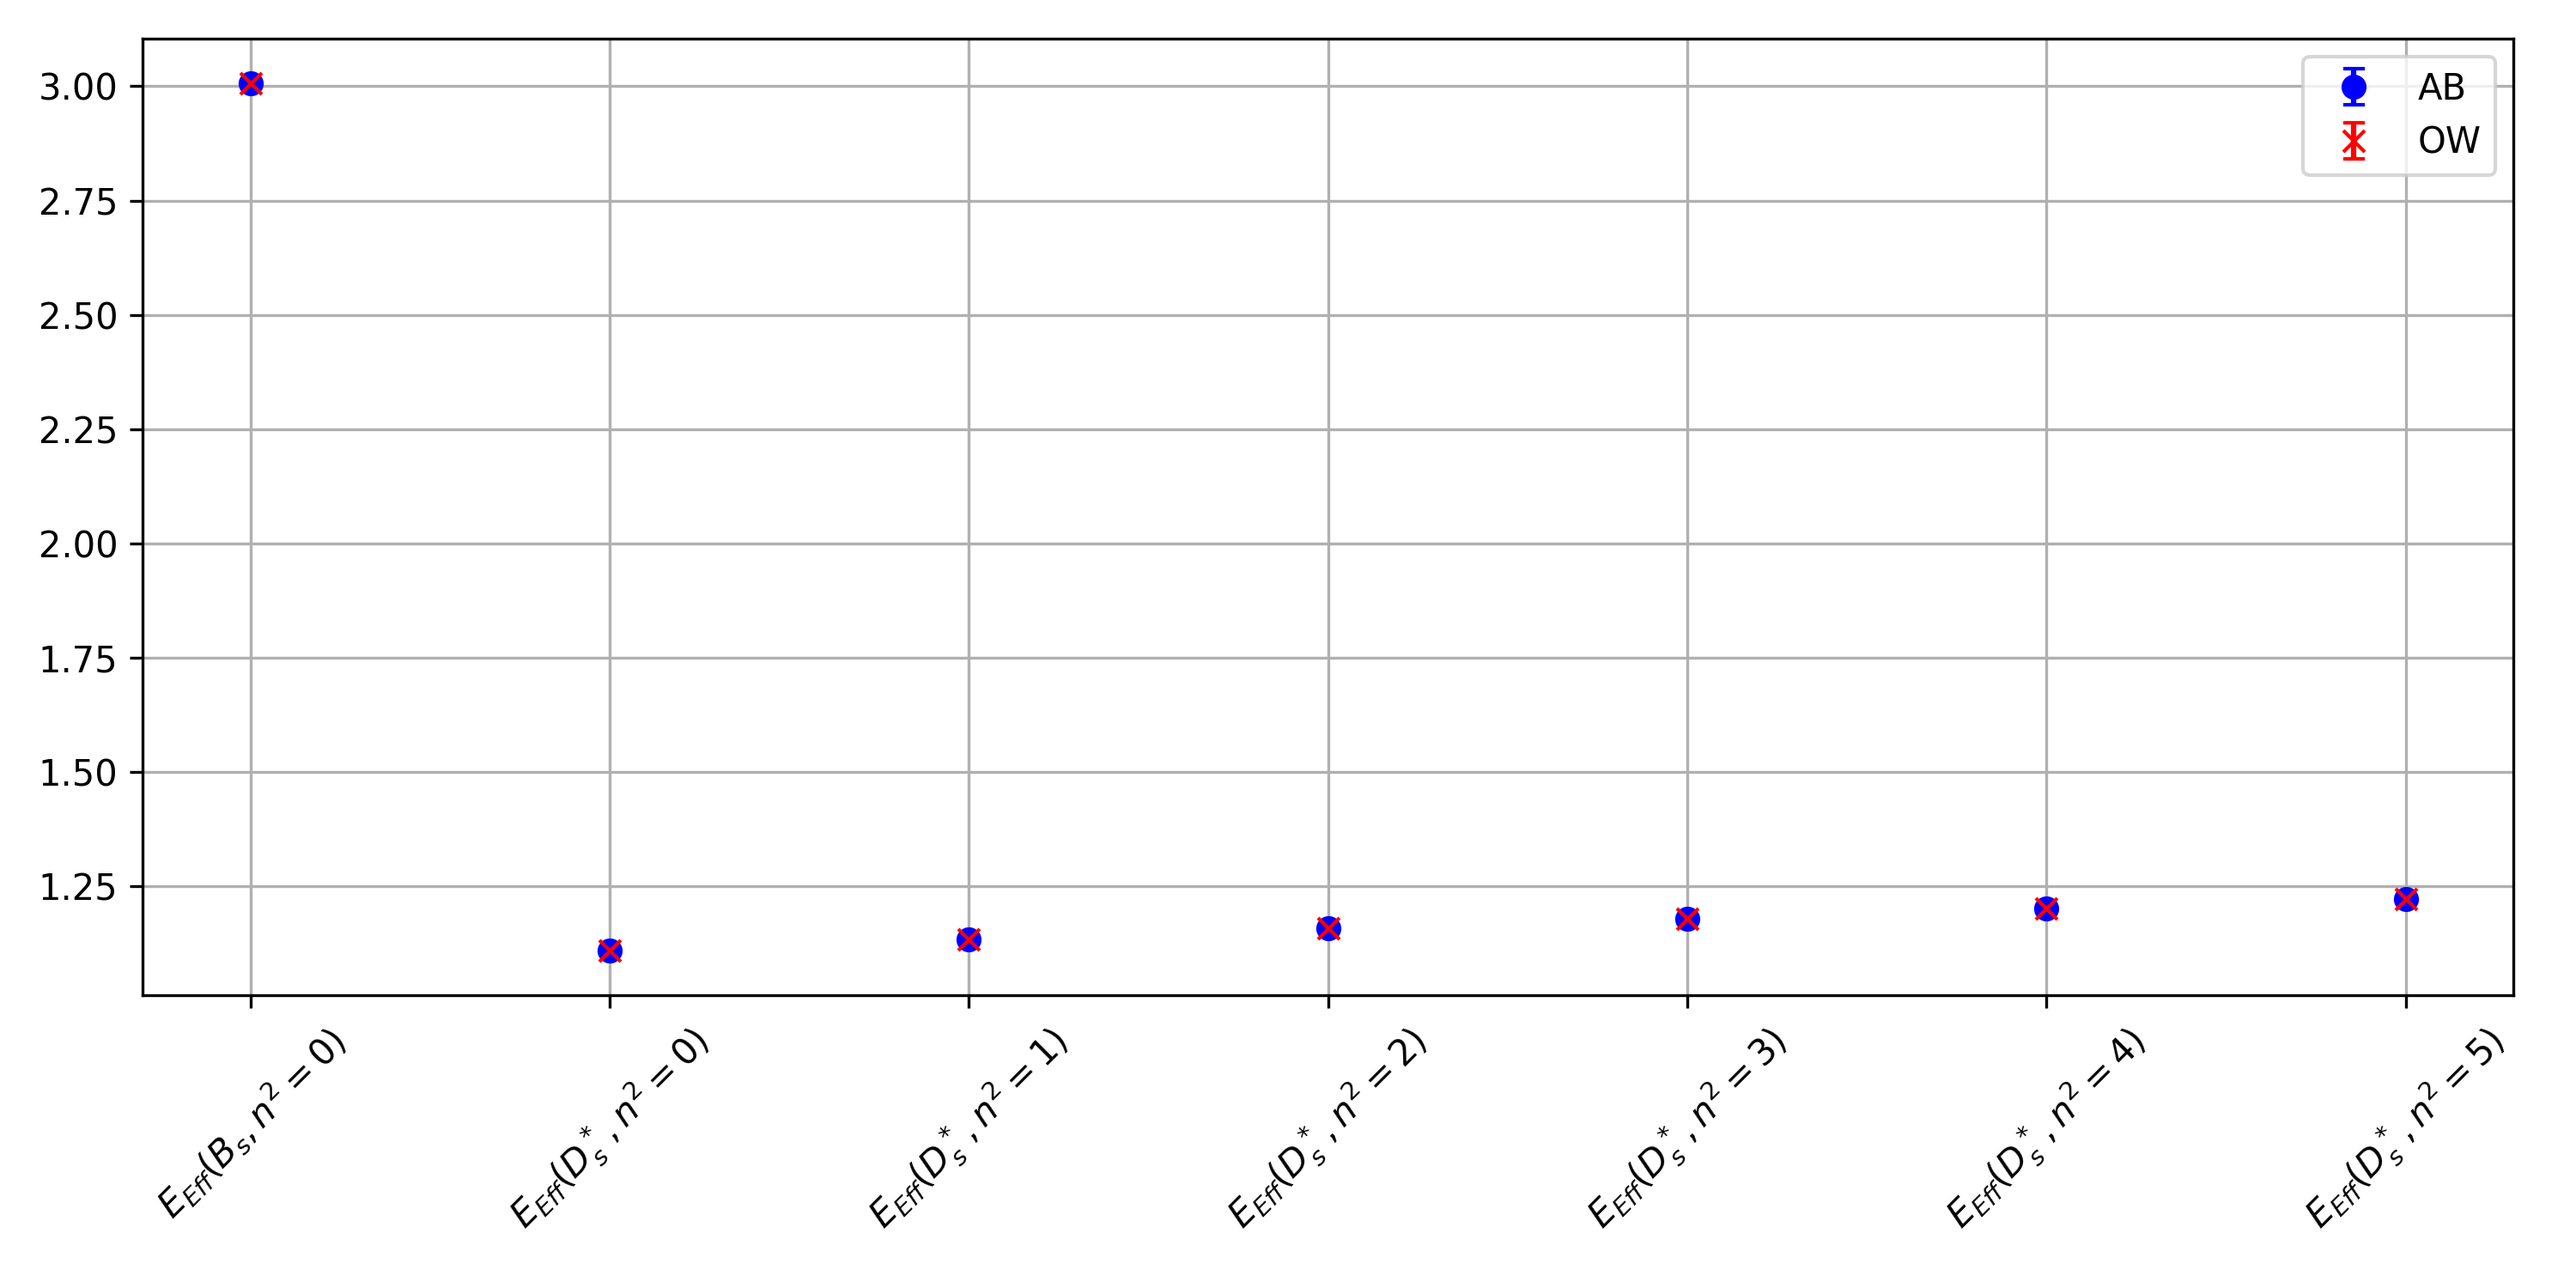
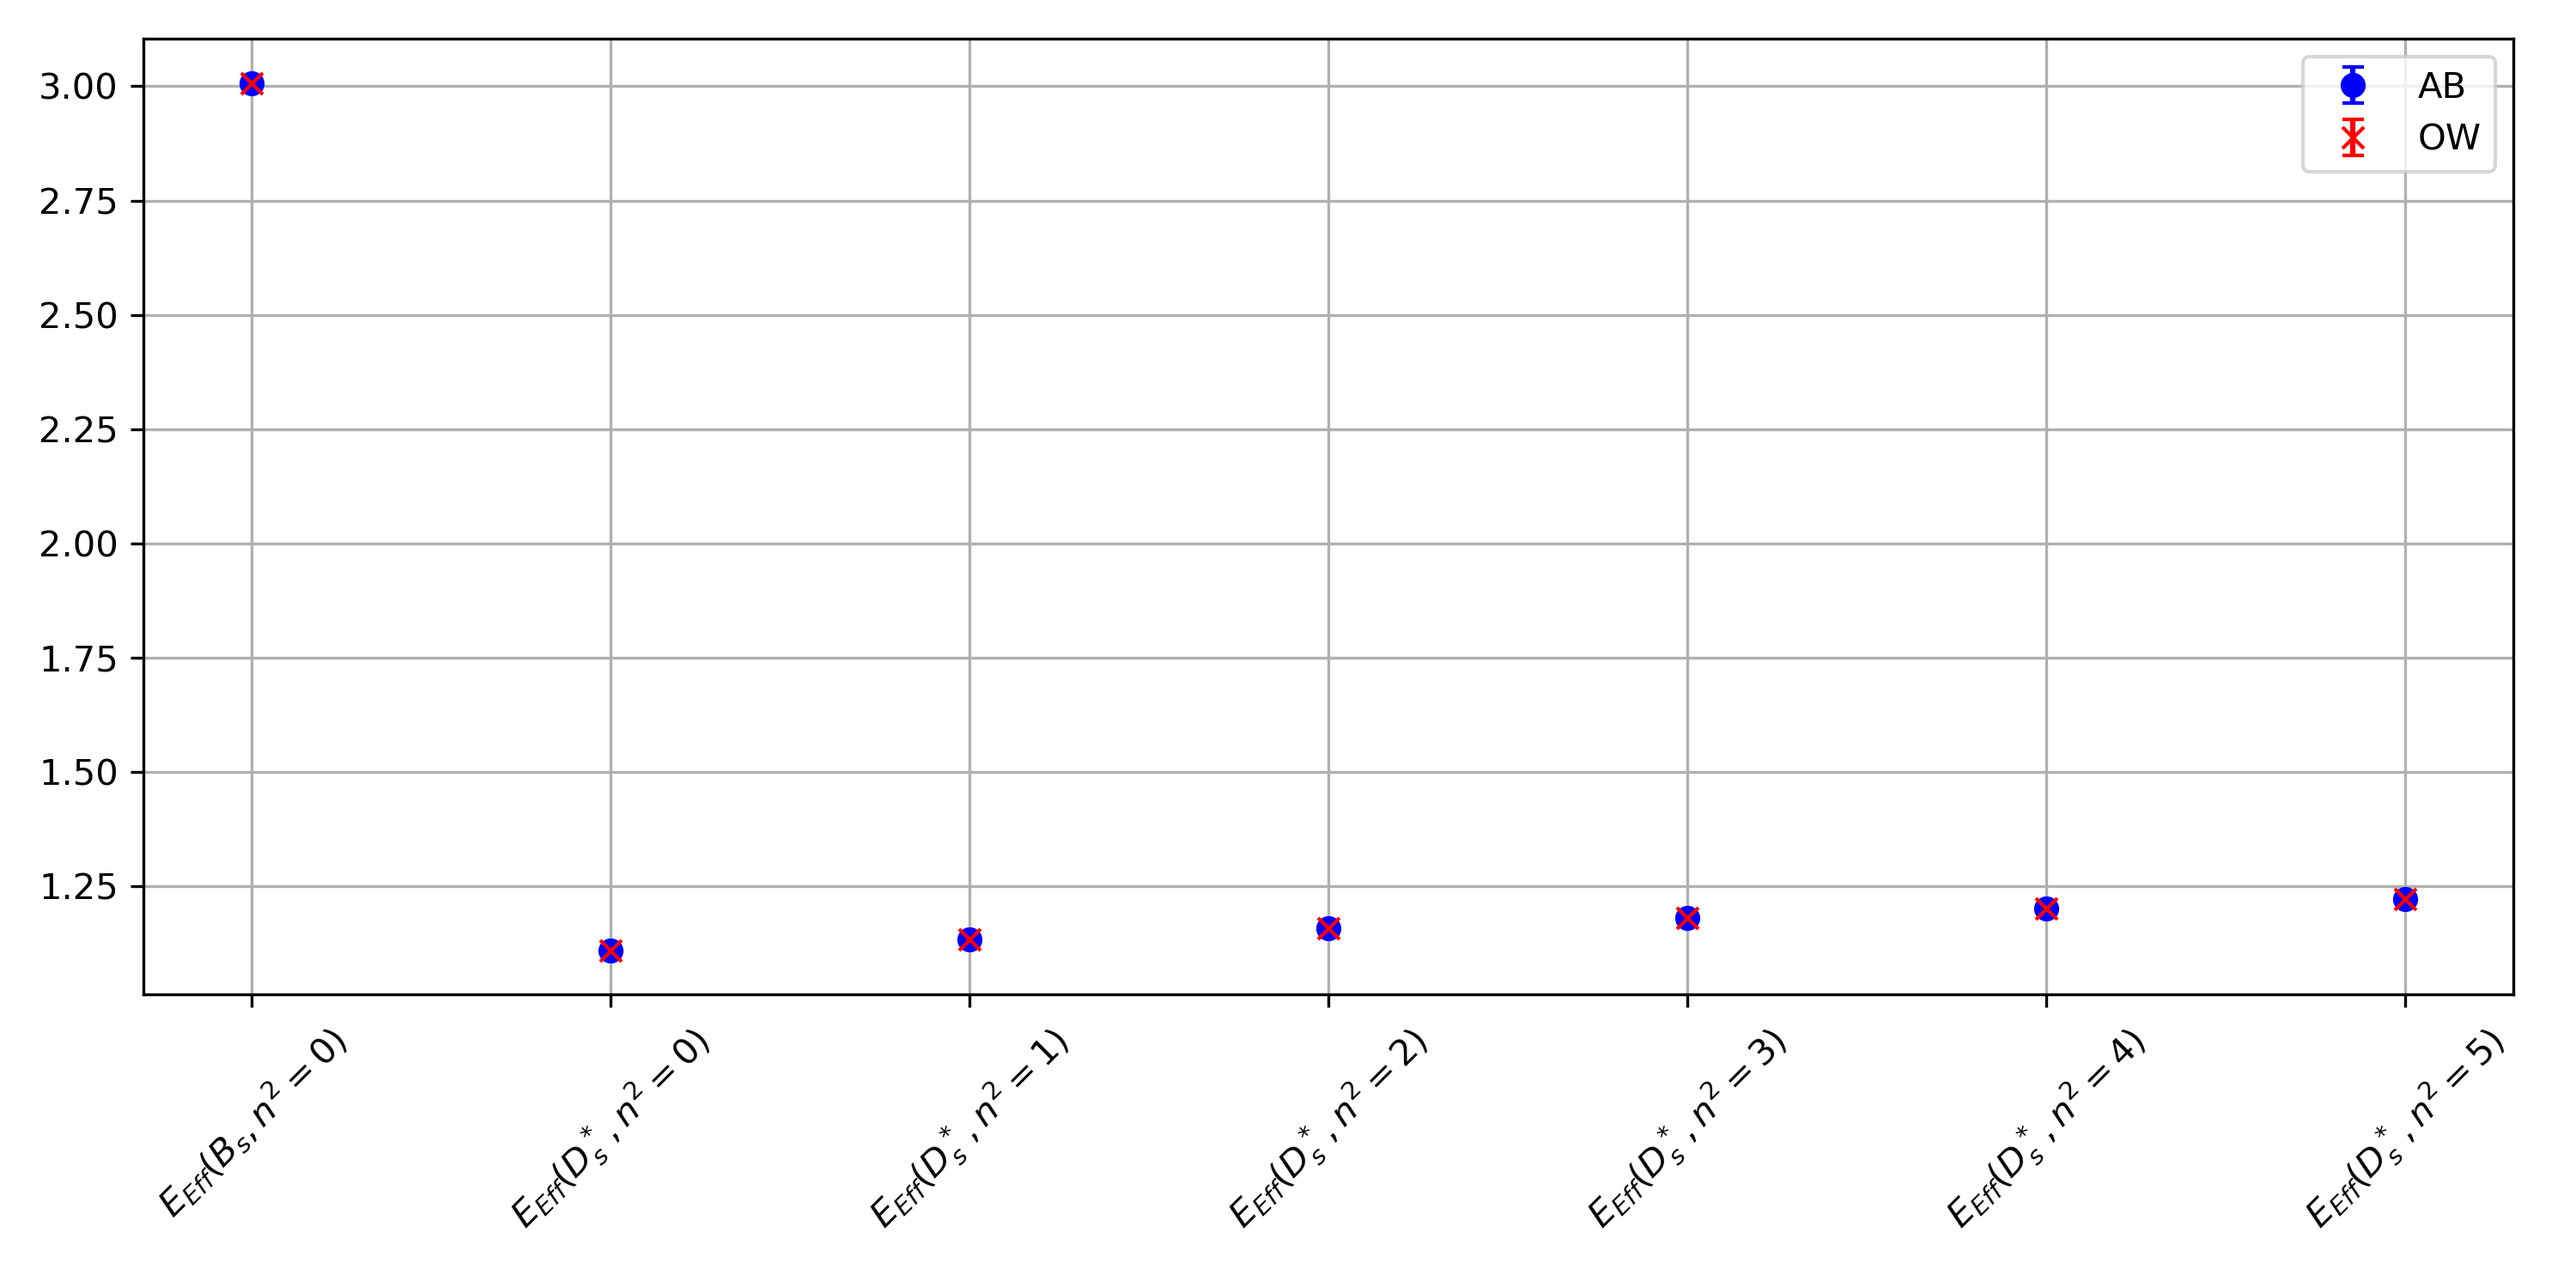
crosscheck plots

diff --git a/Code/Crosscheck-Plot.py b/Code/Crosscheck-Plot.py
@@ -1,9 +1,9 @@
 import pandas as pd
 import matplotlib.pyplot as plt
 
-ens= 'C2'  
-ens_ow='010'
-m='0.400'
+ens= 'F1S'  
+ens_ow='002144'
+m='0.259'
 
 # === Load data1 ===
 df1 = pd.read_csv("../Results/Crosschecks/AB/Crosscheck-{}-{}.csv".format(ens,m), sep="\t", header=None, names=["value", "error", "pval"])
@@ -28,7 +28,8 @@ def plot_range(start, end, df1, df2, title,labels=None,ylim=None):
     ids = df1['id'].iloc[start+1:end+2]
     x_labels = labels[start:end+1] if labels else ids
 
-    plt.figure(figsize=(10, 5))
+    #plt.figure(figsize=(10, 5))
+    plt.figure(figsize=(3, 5))
     print(df1['value'].iloc[start+1:end+2])
     plt.errorbar(ids, df1['value'].iloc[start+1:end+2], yerr=df1['error'].iloc[start+1:end+2],
                  fmt='o', label='AB', capsize=3, color='blue')
@@ -45,7 +46,7 @@ def plot_range(start, end, df1, df2, title,labels=None,ylim=None):
     plt.legend()
     plt.grid(True)
     plt.tight_layout()
-    plt.savefig('../Results//Crosschecks/Comparison-{}-{}_{}-{}.png'.format(start, end,ens,m), dpi=300)
+    plt.savefig('../Results//Crosschecks/Comparison-{}-{}_{}-{}-new.png'.format(start, end,ens,m), dpi=300)
     plt.close()
 
 df1["value"] = pd.to_numeric(df1["value"], errors="coerce")
@@ -55,5 +56,6 @@ df2_selected["error"] = pd.to_numeric(df2_selected["error"], errors="coerce")
 
 # === Plot in two parts ===
 #ylim=(0.8, 2.3)
-plot_range(0, 6, df1, df2_selected, "",labels=observable_names)
-plot_range(7, 21, df1, df2_selected, "",labels=observable_names)
+plot_range(0, 0, df1, df2_selected, "",labels=observable_names,ylim=(1.9, 1.95))
+#plot_range(1, 6, df1, df2_selected, "",labels=observable_names)
+#plot_range(7, 21, df1, df2_selected, "",labels=observable_names)

diff --git a/Code/Crosscheck.py b/Code/Crosscheck.py
@@ -2,8 +2,8 @@ import matplotlib.pyplot as plt
 import pandas as pd
 import numpy as np
 
-ens = 'C2'  # or 'M1', 'M2', etc.
-m='0.300'
+ens = 'F1S'  # or 'M1', 'M2', etc.
+m='0.259'
 
 bs2pt=pd.read_csv('../Data/{}/2pt/BsResult.csv'.format(ens), sep='\s')['EffectiveMass'].iloc[0]
 ds2pt0=pd.read_csv('../Data/{}/2pt/Ds{}Result-0.csv'.format(ens,m), sep='\s')['EffectiveMass'].iloc[0]
